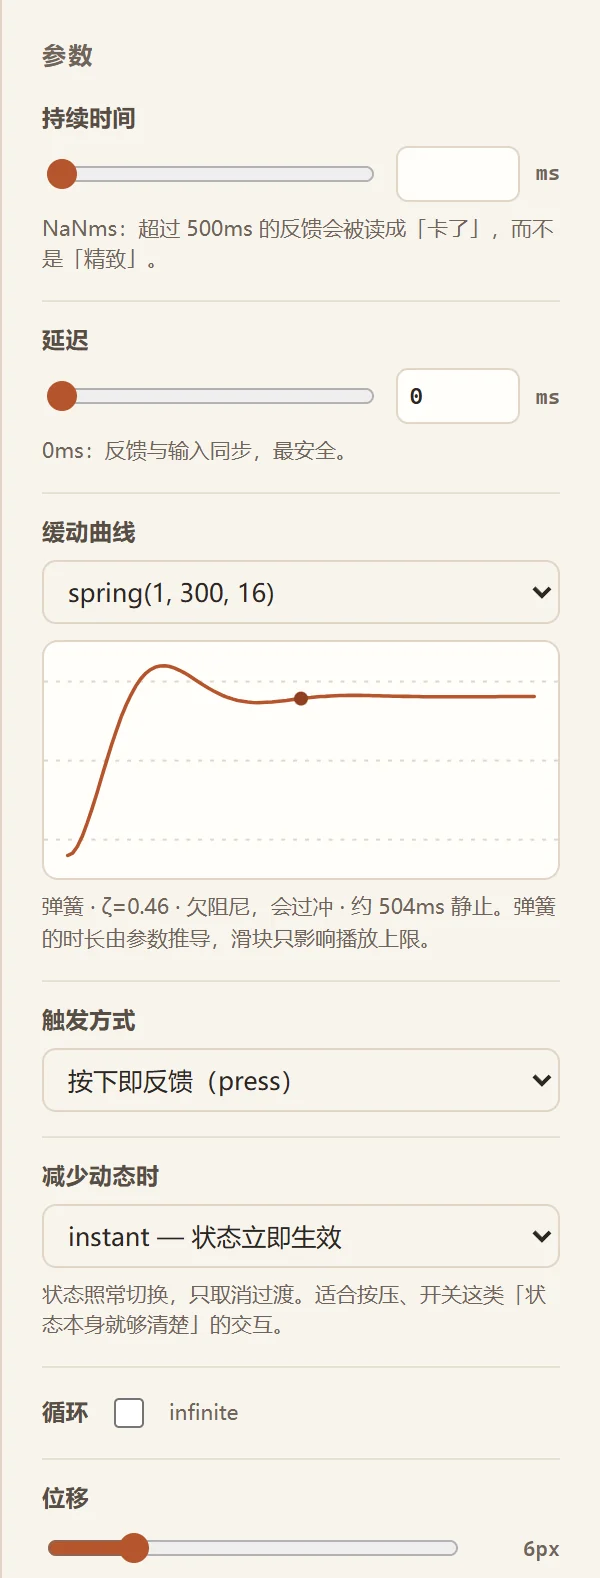
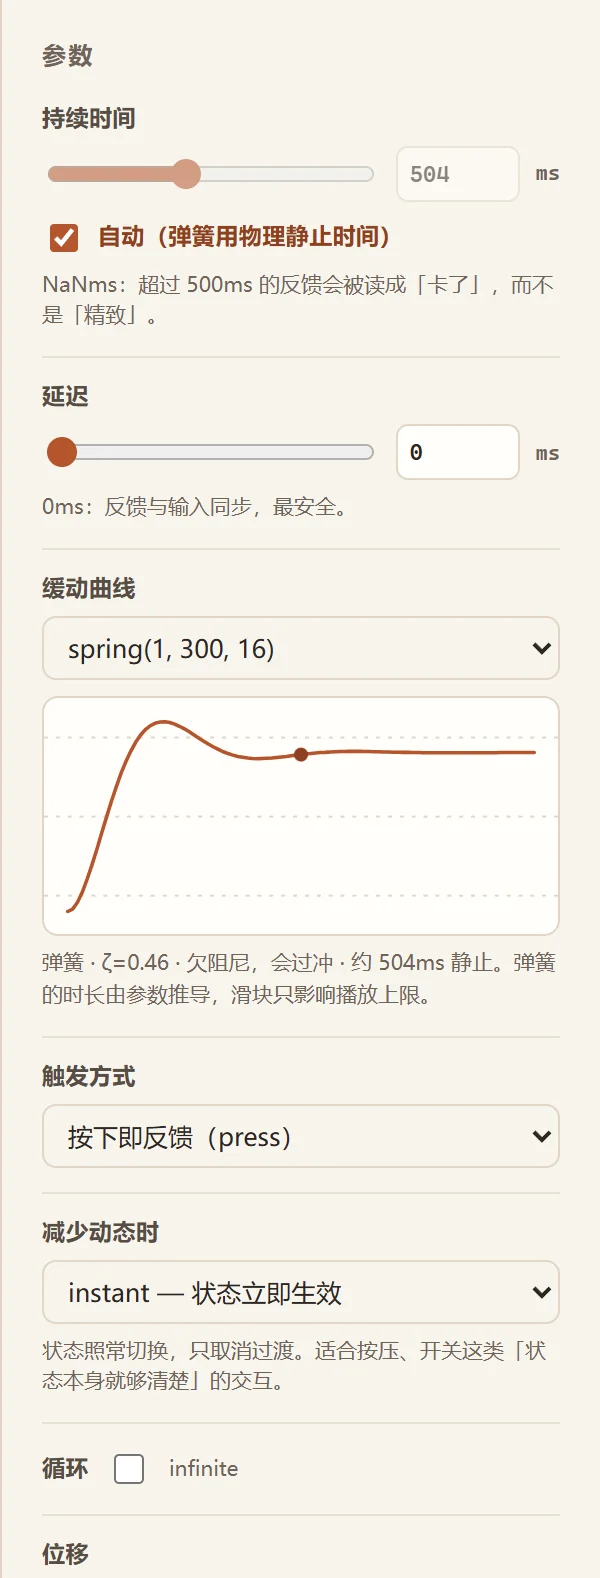
v0.2.1 — fix spring presets reporting "0ms · static"
syncControlsFromMotion wrote duration:"auto" into <input type="number">. The
browser rejects it, the input reads back "", and Number("") is 0 — so every
spring preset showed "0ms · 静态切换" in the facts panel while animating for
about 500ms. The preview was fine; only the reported plan was wrong, which is
the more dangerous direction.

The sentinel now lives in a checkbox instead of the number input: "自动（弹簧用
物理静止时间）". Dragging the slider clears it, unchecking it adopts the value
already on screen so the exit from auto is continuous.

Two regression tests: the spring panel must show its physical duration and must
not leave the number input empty; editing the slider must clear the flag.

181 tests (94 unit, 87 browser).

diff --git a/demo/lab.js b/demo/lab.js
@@ -230,8 +230,20 @@ function applyMotion() {
 function syncControlsFromMotion(motion) {
   const effective = { ...getPreset(state.presetId).motion, ...motion };
 
-  $("#duration").value = clampToRange("#duration", effective.duration);
-  $("#duration-num").value = effective.duration;
+  // `"auto"` is a valid duration for springs, but it is not a valid value for an
+  // <input type="number">: assigning it yields an empty string, and reading that
+  // back gives Number("") === 0 — which collapsed every spring preset to a 0ms
+  // "static" state. The slider shows the resolved settle time; the sentinel is
+  // carried by the checkbox instead.
+  const isAuto = effective.duration === "auto";
+  const resolvedDuration = isAuto
+    ? plan({ ...effective, osPrefers: false, policy: "respect" }).effective.duration
+    : effective.duration;
+
+  $("#duration").value = clampToRange("#duration", resolvedDuration);
+  $("#duration-num").value = resolvedDuration;
+  $("#auto-duration").checked = isAuto;
+  $("#auto-duration").closest(".lab-field").classList.toggle("is-on", isAuto);
   $("#delay").value = clampToRange("#delay", effective.delay);
   $("#delay-num").value = effective.delay;
 
@@ -268,7 +280,10 @@ function readControls() {
   return {
     ...preset.motion,
     ...state.motion,
-    duration: Number($("#duration-num").value),
+    // The auto checkbox is the source of truth for a spring: reading the number
+    // input alone loses the "no opinion" state and bakes in whichever value the
+    // slider happened to be showing.
+    duration: $("#auto-duration").checked ? "auto" : Number($("#duration-num").value),
     delay: Number($("#delay-num").value),
     easing: $("#easing").value,
     trigger: $("#trigger").value,
@@ -472,10 +487,30 @@ function bindControls() {
     const v = clampToRange("#duration", value);
     $("#duration").value = v;
     $("#duration-num").value = v;
+    // Touching the slider is an opinion: it clears "auto" rather than leaving a
+    // checkbox ticked while the value it governs is being overridden.
+    if ($("#auto-duration").checked) {
+      $("#auto-duration").checked = false;
+      $("#auto-duration").closest(".lab-field").classList.remove("is-on");
+    }
     state.motion.duration = v;
     applyMotion();
     updateNotes(readControls());
   };
+
+  $("#auto-duration").addEventListener("change", (ev) => {
+    if (ev.target.checked) {
+      state.motion.duration = "auto";
+    } else {
+      // Unchecking adopts whatever the panel is currently showing, so the
+      // transition out of auto is continuous rather than a jump to 240ms.
+      const shown = Number($("#duration-num").value);
+      state.motion.duration = Number.isFinite(shown) && shown > 0 ? shown : 240;
+    }
+    syncControlsFromMotion({ ...getPreset(state.presetId).motion, ...state.motion });
+    applyMotion();
+    updateNotes(readControls());
+  });
 
   const syncDelay = (value) => {
     const v = clampToRange("#delay", value);

diff --git a/demo/lab.css b/demo/lab.css
@@ -736,3 +736,32 @@ input:focus-visible {
     flex-wrap: wrap;
   }
 }
+
+/* Auto-duration toggle. Only meaningful for springs, but always present: hiding
+   it would make the spring's duration look like an ordinary slider value. */
+.lab-auto {
+  display: flex;
+  align-items: center;
+  gap: 7px;
+  font-size: 11px;
+  color: var(--lab-ink-3);
+  cursor: pointer;
+  margin-top: 2px;
+}
+
+.lab-auto input {
+  accent-color: var(--lab-accent);
+  width: 14px;
+  height: 14px;
+}
+
+.lab-field.is-on .lab-auto {
+  color: var(--lab-accent-2);
+  font-weight: 600;
+}
+
+/* When auto is on, the manual number box is informational, not editable. */
+.lab-field.is-on input[type="number"],
+.lab-field.is-on input[type="range"] {
+  opacity: 0.55;
+}

diff --git a/demo/index.html b/demo/index.html
@@ -90,6 +90,10 @@
         <input id="duration-num" type="number" min="0" max="4000" step="10" value="180" aria-label="持续时间毫秒">
         <span class="lab-unit">ms</span>
       </div>
+      <label class="lab-auto" for="auto-duration">
+        <input id="auto-duration" type="checkbox">
+        <span>自动（弹簧用物理静止时间）</span>
+      </label>
       <p class="lab-note" id="note-duration">低于 120ms 感知不到过渡；高于 400ms 开始拖沓。</p>
     </div>
 

diff --git a/README.md b/README.md
@@ -71,7 +71,7 @@ Then open `demo/index.html` — directly from the filesystem works, no server re
 | Command | What it runs |
 |---|---|
 | `npm test` | 94 unit tests: easing maths, motion plans, exports, stylesheet coverage, preferences |
-| `npm run test:browser` | 85 browser tests: real pointer/keyboard/touch, a11y audit, export runtime, declarative runtime |
+| `npm run test:browser` | 87 browser tests: real pointer/keyboard/touch, a11y audit, export runtime, declarative runtime |
 | `npm run build -- --report` | Bundle sizes and gzip deltas |
 | `npm run figures` | Regenerate the README images from the running page |
 | `npm run figures:check` | Re-verify them: dimensions, ink coverage, per-tile content |
@@ -301,12 +301,12 @@ They are included because a lab that only demonstrates the good path teaches not
 | `export.test.mjs` | 26 | Generated CSS parses and matches the plan, all targets well-formed |
 | `styles.test.mjs` | 3 | No class used without a rule, no dead rules, balanced braces |
 | `preferences.test.mjs` | 20 | The OS always beats a stored preference; spring duration; bundle export |
-| `browser.test.mjs` | 39 | Real pointer/keyboard interaction, async state machine, drag, export panel |
+| `browser.test.mjs` | 41 | Real pointer/keyboard interaction, async state machine, drag, export panel |
 | `a11y.test.mjs` | 17 | Real OS reduce, ARIA tree, focus rings via keyboard, contrast |
 | `export-runtime.test.mjs` | 11 | Exported HTML loads in Chrome and animates when clicked |
 | `runtime.test.mjs` | 18 | Declarative mounting, no nested buttons, observer, touch long-press |
 
-179 tests total. The v0.2 suites are adversarial by design: the runtime tests exist
+181 tests total. The v0.2 suites are adversarial by design: the runtime tests exist
 because the first implementation nested `<button>` inside `<button>`, and the
 preference tests iterate every stored value against an OS reduce to prove none of
 them can lift it.
